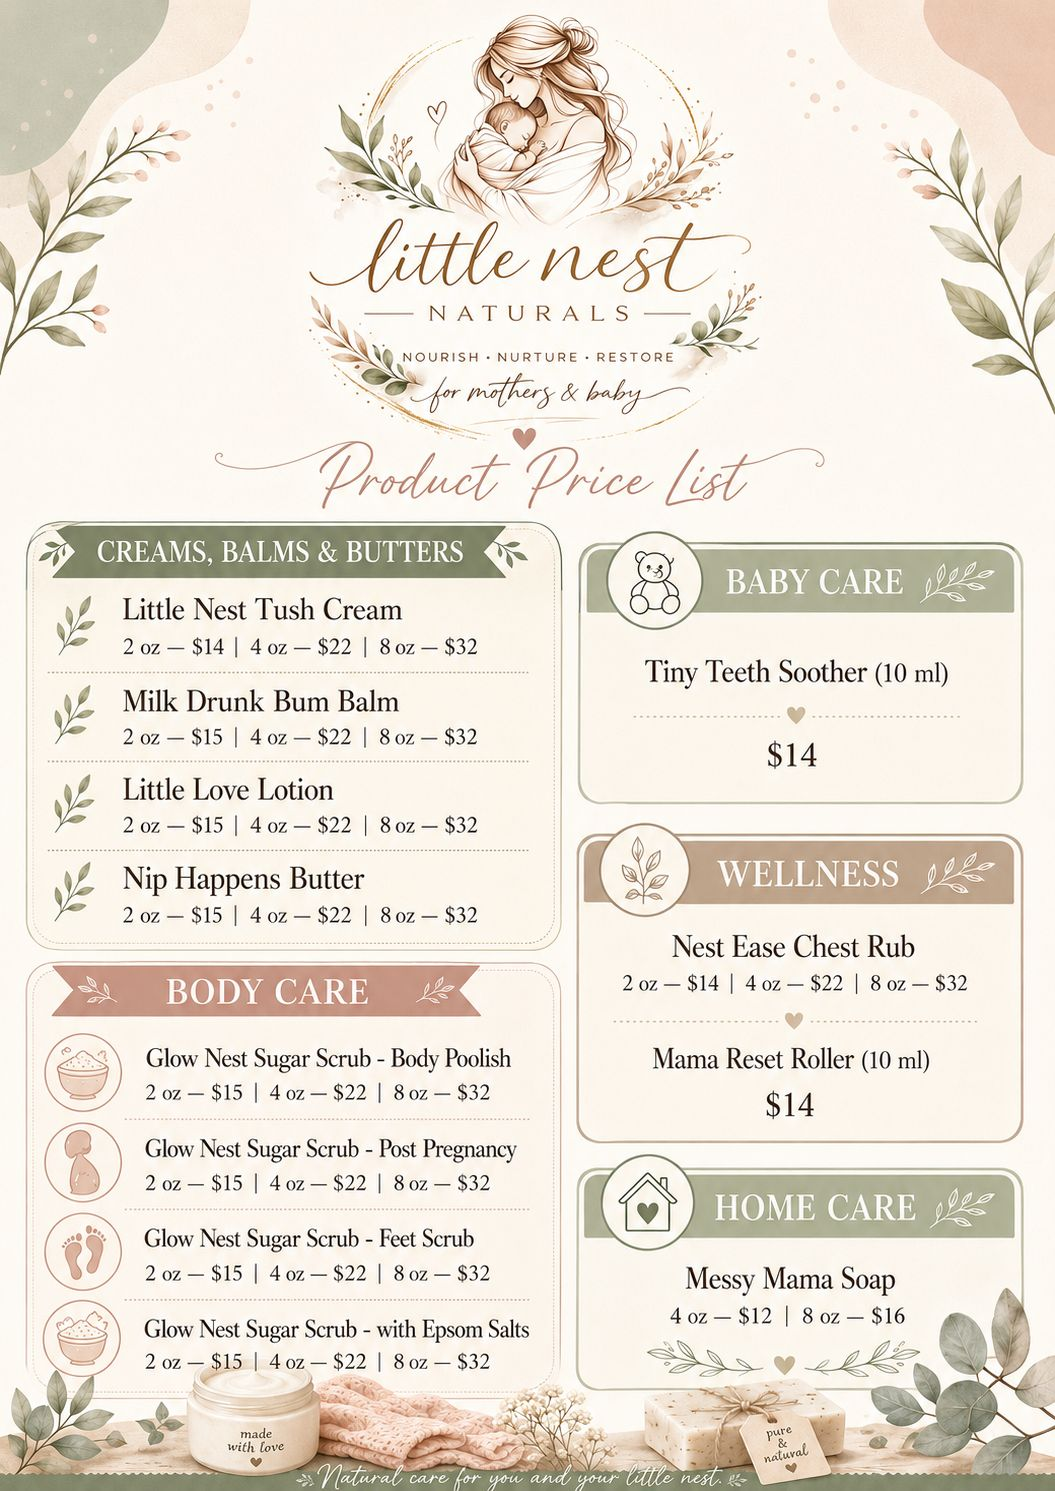
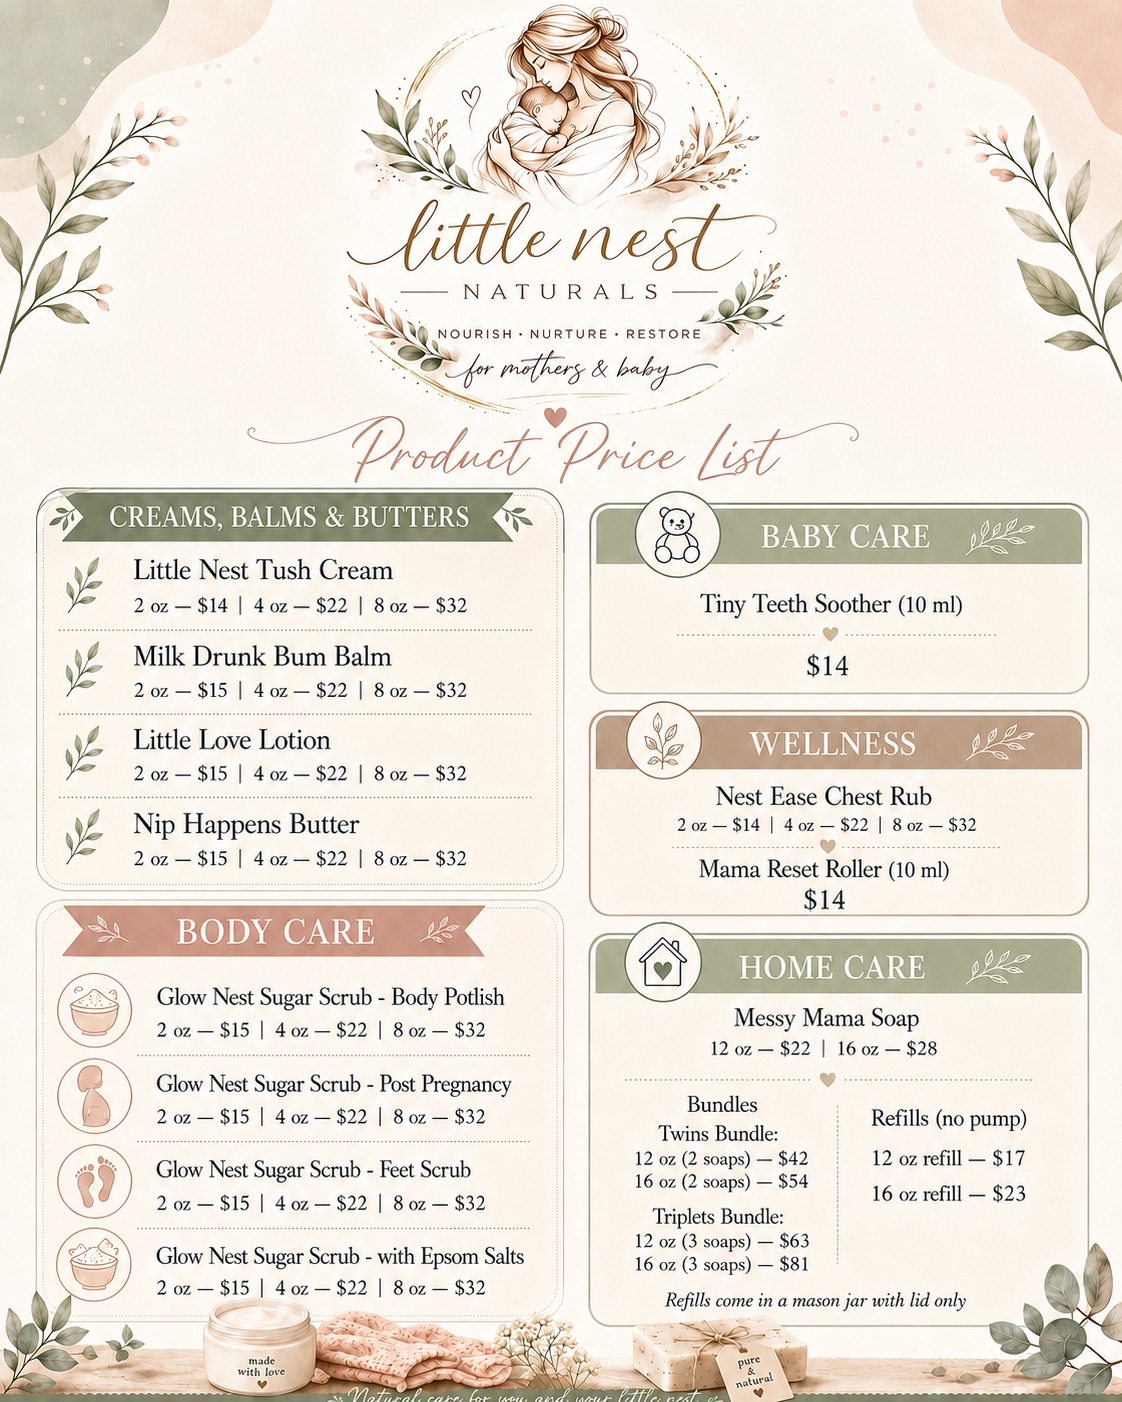
Update June price list

diff --git a/index.html b/index.html
@@ -716,7 +716,9 @@
                   <ul class="price-list">
                     <li><strong>Nest Ease Chest Rub</strong><span><em>2 oz — $14</em><em>4 oz — $22</em><em>8 oz — $32</em></span></li>
                     <li><strong>Mama Reset Roller</strong><span><em>10 ml — $14</em></span></li>
-                    <li><strong>Messy Mama Soap</strong><span><em>4 oz — $12</em><em>8 oz — $16</em></span></li>
+                    <li><strong>Messy Mama Soap</strong><span><em>12 oz — $22</em><em>16 oz — $28</em></span></li>
+                    <li><strong>Messy Mama Soap Bundles</strong><span><em>Twins 12 oz — $42</em><em>Twins 16 oz — $54</em><em>Triplets 12 oz — $63</em><em>Triplets 16 oz — $81</em></span></li>
+                    <li><strong>Messy Mama Soap Refills</strong><span><em>12 oz refill — $17</em><em>16 oz refill — $23</em></span></li>
                   </ul>
                 </article>
               </div>
@@ -818,10 +820,12 @@
                 <h3>Messy Mama Soap Bundle</h3>
                 <p>A sudsy little reset for busy hands and messy days.</p>
                 <ul class="bundle-readable-list">
-                  <li>Twins Bundle — 2 Messy Mama Soaps (8 oz each) — $30</li>
-                  <li>Triplets Bundle — 3 Messy Mama Soaps (8 oz each) — $45</li>
+                  <li>Twins Bundle — 2 Messy Mama Soaps (12 oz each) — $42</li>
+                  <li>Twins Bundle — 2 Messy Mama Soaps (16 oz each) — $54</li>
+                  <li>Triplets Bundle — 3 Messy Mama Soaps (12 oz each) — $63</li>
+                  <li>Triplets Bundle — 3 Messy Mama Soaps (16 oz each) — $81</li>
                 </ul>
-                <span class="bundle-price-pill">From $30</span>
+                <span class="bundle-price-pill">From $42</span>
                 <a class="bundle-card-cta" target="_blank" href="https://little-nest-naturals.myshopify.com">Order this bundle →</a>
               </div>
             </article>
